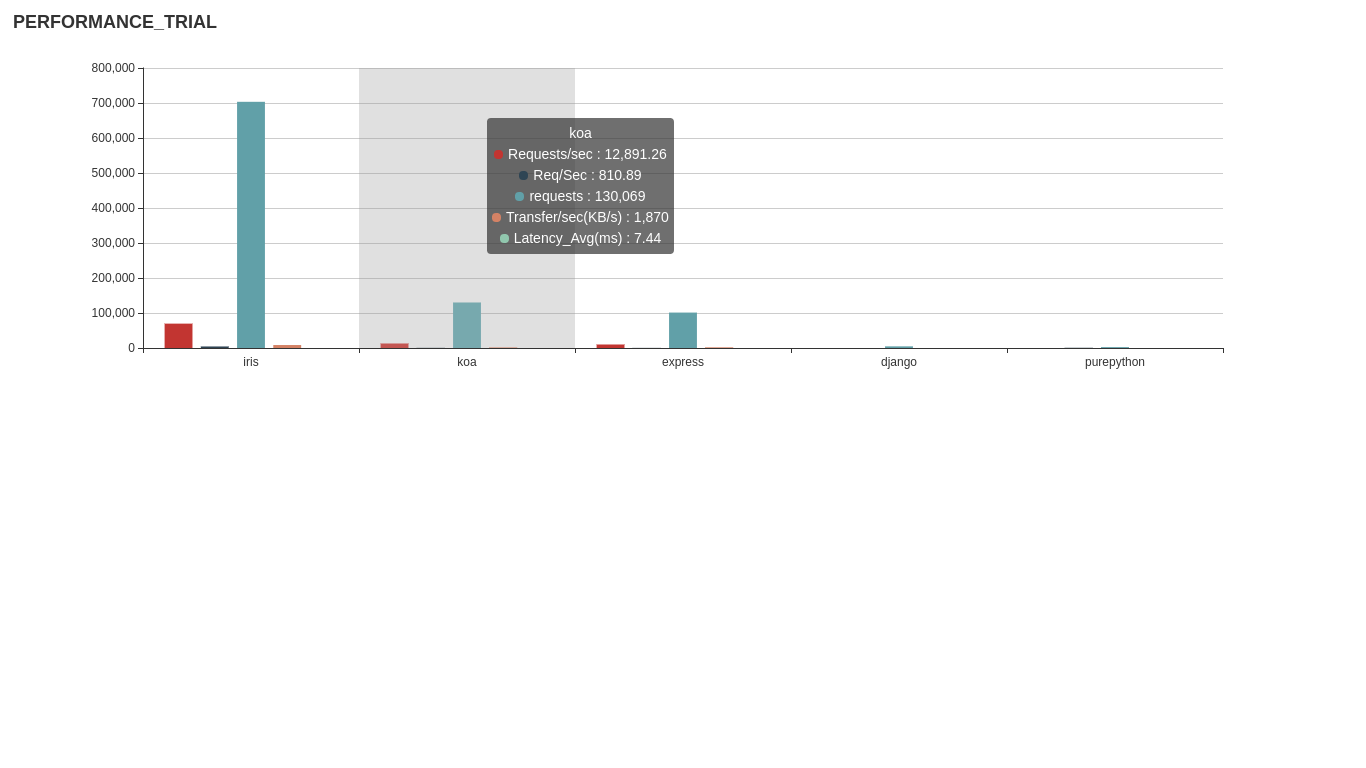
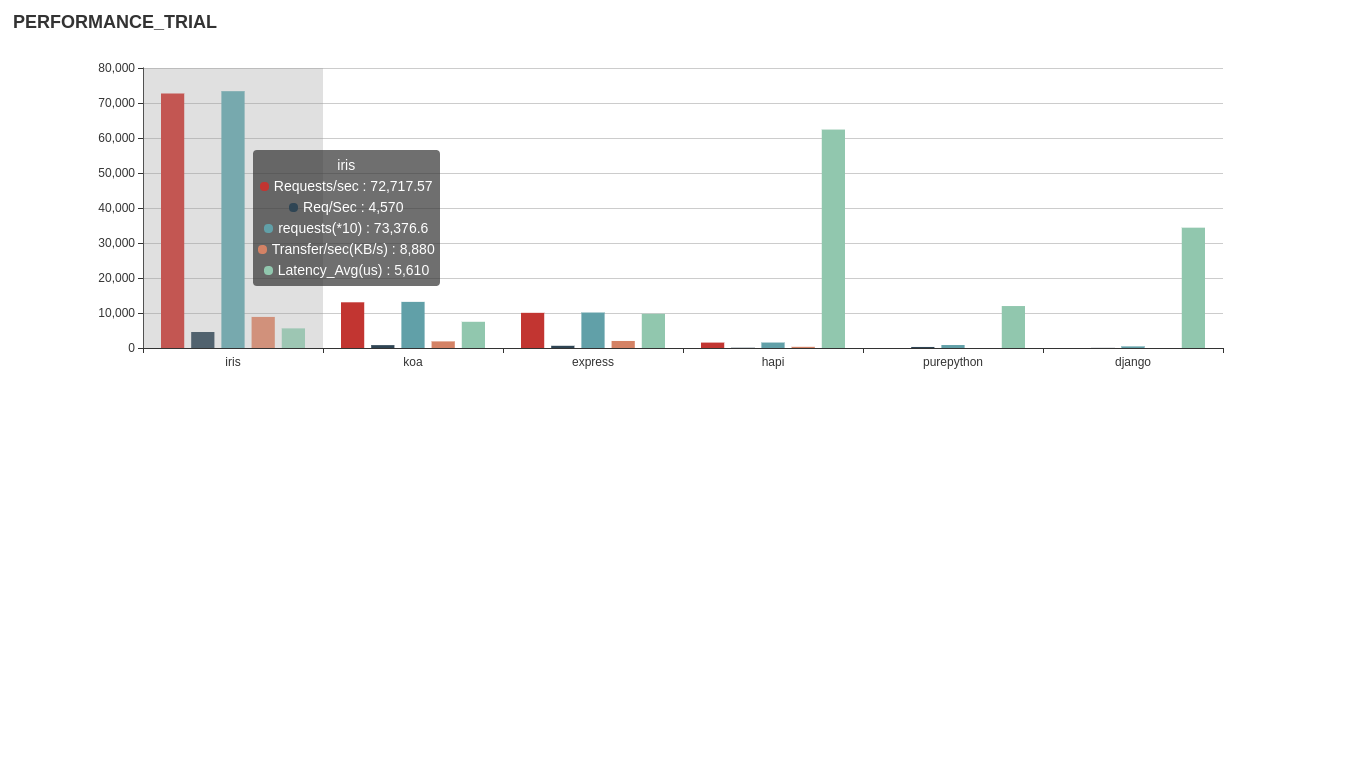
add hapi and fix chart unit

diff --git a/www/output.js b/www/output.js
@@ -1,1 +1,1 @@
-var data = [{"name":"iris","Latency_Avg":5250,"Req/Sec":4410,"requests":703407,"Requests/sec":69648.28,"Transfer/sec":8500000},{"name":"koa","Latency_Avg":7440,"Req/Sec":810.89,"requests":130069,"Requests/sec":12891.26,"Transfer/sec":1870000},{"name":"express","Latency_Avg":9560,"Req/Sec":630.1,"requests":101229,"Requests/sec":10023.19,"Transfer/sec":2009999.9999999998},{"name":"django","Latency_Avg":62450,"Req/Sec":36.26,"requests":4711,"Requests/sec":null,"Transfer/sec":466.5},{"name":"purepython","Latency_Avg":720.43,"Req/Sec":950,"requests":2589,"Requests/sec":null,"Transfer/sec":256.3}]
+var data = [{"name":"iris","Latency_Avg":5610,"Req/Sec":4570,"requests":733766,"Requests/sec":72717.57,"Transfer/sec":8880000},{"name":"koa","Latency_Avg":7490,"Req/Sec":820.56,"requests":131799,"Requests/sec":13058.62,"Transfer/sec":1890000},{"name":"express","Latency_Avg":9770,"Req/Sec":631.59,"requests":101367,"Requests/sec":10047.53,"Transfer/sec":2009999.9999999998},{"name":"hapi","Latency_Avg":62410,"Req/Sec":97.91,"requests":15597,"Requests/sec":1546.08,"Transfer/sec":335440},{"name":"purepython","Latency_Avg":11990,"Req/Sec":294.93,"requests":8478,"Requests/sec":null,"Transfer/sec":839.7},{"name":"django","Latency_Avg":34380,"Req/Sec":60.86,"requests":4602,"Requests/sec":null,"Transfer/sec":455.8}]

diff --git a/www/index.html b/www/index.html
@@ -42,17 +42,17 @@
                 type: 'bar',
                 data: data.map((e) => { return e["Req/Sec"] })
             }, {
-                name: 'requests',
+                name: 'requests(*10)',
                 type: 'bar',
-                data: data.map((e) => { return e["requests"] })
+                data: data.map((e) => { return e["requests"] /10 })
             }, {
                 name: 'Transfer/sec(KB/s)',
                 type: 'bar',
                 data: data.map((e) => { return e["Transfer/sec"] / 1000 })
             }, {
-                name: 'Latency_Avg(ms)',
+                name: 'Latency_Avg(us)',
                 type: 'bar',
-                data: data.map((e) => { return e["Latency_Avg"] / 1000 })
+                data: data.map((e) => { return e["Latency_Avg"]  })
             }]
         };
         chart.setOption(option);

diff --git a/frameworks/hapi/app.js b/frameworks/hapi/app.js
@@ -1,0 +1,29 @@
+'use strict';
+
+const Hapi = require('hapi');
+
+// Create a server with a host and port
+const server = new Hapi.Server();
+server.connection({ 
+    host: 'localhost', 
+    port: 7005 
+});
+
+// Add the route
+server.route({
+    method: 'GET',
+    path:'/', 
+    handler: function (request, reply) {
+
+        return reply('hello world');
+    }
+});
+
+// Start the server
+server.start((err) => {
+
+    if (err) {
+        throw err;
+    }
+    console.log('Server running at:', server.info.uri);
+});

diff --git a/taskconfig.js b/taskconfig.js
@@ -9,6 +9,7 @@ module.exports = {
         { name: 'iris', url: 'http://127.0.0.1:7003/' },
         { name: 'express', url: 'http://127.0.0.1:7002/' },
         { name: 'django', url: 'http://127.0.0.1:7006/' },
+        { name: 'hapi', url: 'http://127.0.0.1:7005/' },
     ],
 
 

diff --git a/README.md b/README.md
@@ -14,7 +14,7 @@
 ### FRAMEWORKS
 here contains following frameworks:
 
-    node : express koa
+    node : express koa hapi
 
     python: django
 
